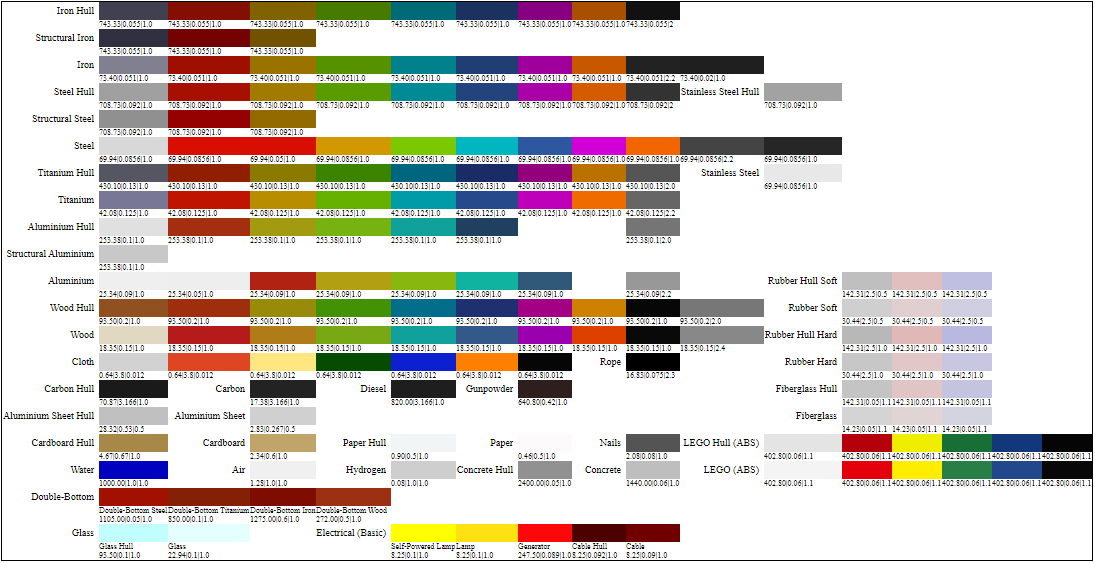
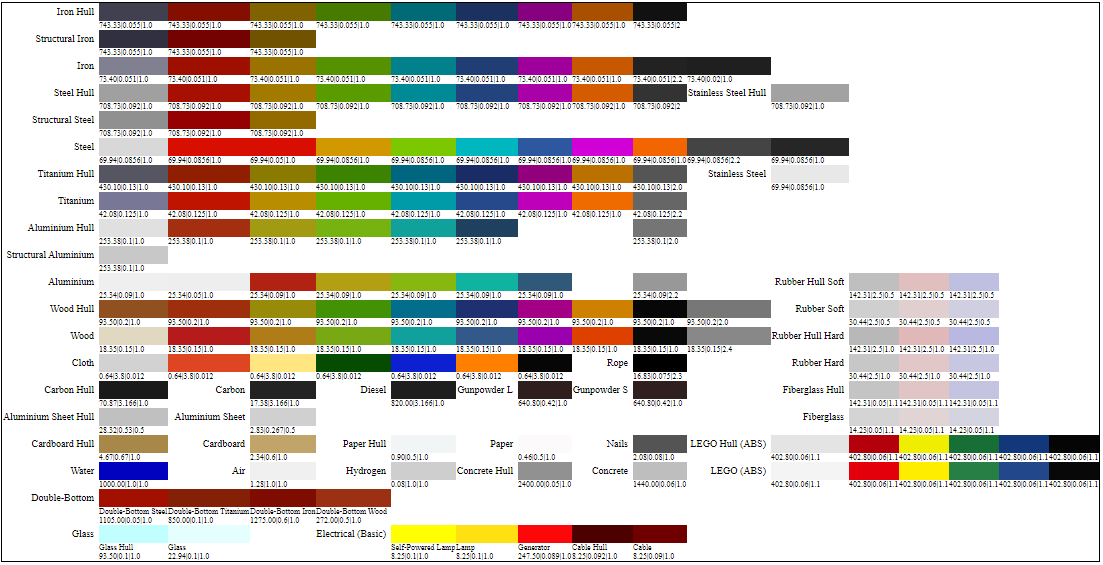
Added material properties for explosive combustion

Changed region(s): [[0.0, 0.0, 1.0, 0.9964], [0.0, 0.0, 0.7452, 0.2718], [0.6831, 0.4831, 0.8694, 0.6039]]

diff --git a/Game/Points.cpp b/Game/Points.cpp
@@ -880,13 +880,11 @@ void Points::UpdateCombustionLowFrequency(
             // Explode!
             //
 
-            // Blast radius, arbitrarily dependent on material's ignition temperature
-            float constexpr MinBlastRadius = 2.0f;
-            float constexpr MaxBlastRadius = 7.5f;
-            float const power = SmoothStep(480.0f, 700.0f, mMaterialIgnitionTemperatureBuffer[pointIndex]);
-            float const blastRadius = !gameParameters.IsUltraViolentMode
-                ? (MinBlastRadius + (MaxBlastRadius - MinBlastRadius) * power)
-                : MinBlastRadius * 10.0f;
+            float const blastRadius =
+                mMaterialsBuffer[pointIndex].Structural->ExplosiveCombustionRadius
+                * (gameParameters.IsUltraViolentMode ? 4.0f : 1.0f);
+
+            float const blastStrength = mMaterialsBuffer[pointIndex].Structural->ExplosiveCombustionStrength;
 
             // Start explosion
             mShipPhysicsHandler->StartExplosion(
@@ -894,7 +892,7 @@ void Points::UpdateCombustionLowFrequency(
                 GetPlaneId(pointIndex),
                 pointPosition,
                 blastRadius,
-                95.0f, // Magic number
+                blastStrength,
                 blastHeat,
                 ExplosionType::Combustion,
                 gameParameters);

diff --git a/Game/Materials.cpp b/Game/Materials.cpp
@@ -56,6 +56,8 @@ StructuralMaterial StructuralMaterial::Create(picojson::object const & structura
         float const thermalExpansionCoefficient = Utils::GetOptionalJsonMember<float>(structuralMaterialJson, "thermal_expansion_coefficient", 0.0);
         float const specificHeat = Utils::GetMandatoryJsonMember<float>(structuralMaterialJson, "specific_heat");
         MaterialCombustionType const combustionType = StrToMaterialCombustionType(Utils::GetMandatoryJsonMember<std::string>(structuralMaterialJson, "combustion_type"));
+        float const explosiveCombustionRadius = Utils::GetOptionalJsonMember<float>(structuralMaterialJson, "explosive_combustion_radius", 0.0);
+        float const explosiveCombustionStrength = Utils::GetOptionalJsonMember<float>(structuralMaterialJson, "explosive_combustion_strength", 1.0);
 
         // Misc
 
@@ -84,6 +86,8 @@ StructuralMaterial StructuralMaterial::Create(picojson::object const & structura
             thermalExpansionCoefficient,
             specificHeat,
             combustionType,
+            explosiveCombustionRadius,
+            explosiveCombustionStrength,
             // Misc
             windReceptivity,
             isLegacyElectrical);

diff --git a/Game/Materials.h b/Game/Materials.h
@@ -74,6 +74,8 @@ public:
     float ThermalExpansionCoefficient; // 1/K
     float SpecificHeat; // J/(Kg*K)
     MaterialCombustionType CombustionType;
+    float ExplosiveCombustionRadius; // m
+    float ExplosiveCombustionStrength; // adimensional
 
     // Misc
     float WindReceptivity;
@@ -132,6 +134,8 @@ public:
         float thermalExpansionCoefficient,
         float specificHeat,
         MaterialCombustionType combustionType,
+        float explosiveCombustionRadius,
+        float explosiveCombustionStrength,
         // Misc
         float windReceptivity,
         bool isLegacyElectrical)
@@ -155,6 +159,8 @@ public:
         , ThermalExpansionCoefficient(thermalExpansionCoefficient)
         , SpecificHeat(specificHeat)
         , CombustionType(combustionType)
+        , ExplosiveCombustionRadius(explosiveCombustionRadius)
+        , ExplosiveCombustionStrength(explosiveCombustionStrength)
         , WindReceptivity(windReceptivity)
         , IsLegacyElectrical(isLegacyElectrical)
     {}

diff --git a/FloatingSandbox/AboutDialog.cpp b/FloatingSandbox/AboutDialog.cpp
@@ -130,7 +130,7 @@ AboutDialog::AboutDialog(
         {"\t\t\t\t", "Aur\xe9lien WOLFF", "" },
         {"\t\t\t\t", "HummeL", "https://www.youtube.com/c/HummeL_Prog" },
         {"\t\t\t\t", "Alex di Roma", "https://discordapp.com/" },
-        {"\t\t\t\t", "Fox Assor", "" },
+        {"\t\t\t\t", "Fox Assor", "https://vk.com/id448121270" },
 
         {"Ship art:\t\t", "OceanLinerOrca", "https://www.deviantart.com/oceanlinerorca" },
 

diff --git a/Guides/How to Build a Ship.md b/Guides/How to Build a Ship.md
@@ -28,7 +28,7 @@ The structural layer is the most important layer in Floating Sandbox; it provide
 The color of each pixel in the structural layer image is looked up among the color "keys" of the _materials structural_ materials database, and if a match is found, the ship gets a particle with those coordinates (in metres), and of the material corresponding to the color key. As an example, a grey pixel with the "#303040" color becomes a particle made of "Structural Iron", with the mass, strength, sound, and all the other properties that are  specified for the "Structural Iron" material in the database.
 
 # Electrical Layer
-An electrical layer image provides the electical components of a ship. The color of each pixel in the electrical layer image must correspond to a color in the _materials electrical_ materials database, and the ship particle at that location acquires the electrical properties of the electrical material corresponding to the color. As an example, an electrical layer image pixel with the "#DFE010" color make the particle at the same location in the structural layer acquire the electrical properties of the "Low Lamp" electrical material.
+An electrical layer image provides the electrical components of a ship. The color of each pixel in the electrical layer image must correspond to a color in the _materials electrical_ materials database, and the ship particle at that location acquires the electrical properties of the electrical material corresponding to the color. As an example, an electrical layer image pixel with the "#DFE010" color make the particle at the same location in the structural layer acquire the electrical properties of the "Low Lamp" electrical material.
 
 These are the rules to follow when drawing an image for the electrical layer of a ship:
 - The size of the electrical layer image must match the size of the structural layer image.

diff --git a/Guides/Material System.md b/Guides/Material System.md
@@ -68,7 +68,9 @@ Here's an explanation of the elements:
 - _color key_: the RGB color to use in the structural layer image to tell the game which material to use for a particle.
 - _buoyancy volume fill_: the fraction of 1m3 of this material that may be occupied by air or water, and at the same time, the fraction of 1m3 of air or water that this particle displaces. This parameter basically controls buoyancy.
    - For example, 0.5 means that this particle may take in up to half a cubic meter of air or water, and that this particle also displaces half a cubic meter of air or water.
-- _combustion type_: the type of combustion. At this moment only "Combustion" is supported.
+- _combustion type_: the type of combustion; one of "Combustion" and "Explosion".
+- _explosive combustion radius_: the radius of explosions, when the material is characterized by explosive combustion.
+- _explosive combustion strength_: the strength of explosions, when the material is characterized by explosive combustion.
 - _ignition temperature_: the temperature, in Kelvin, at which the material starts burning.
 - _is hull_: whether or not a point or a spring of this material is permeable to water.
 - _mass_: the mass of the material, in Kg. The mass is really the product of its nominal mass (the real physical mass of the material) with its density (how much of that material is a in a cubic meter). 
